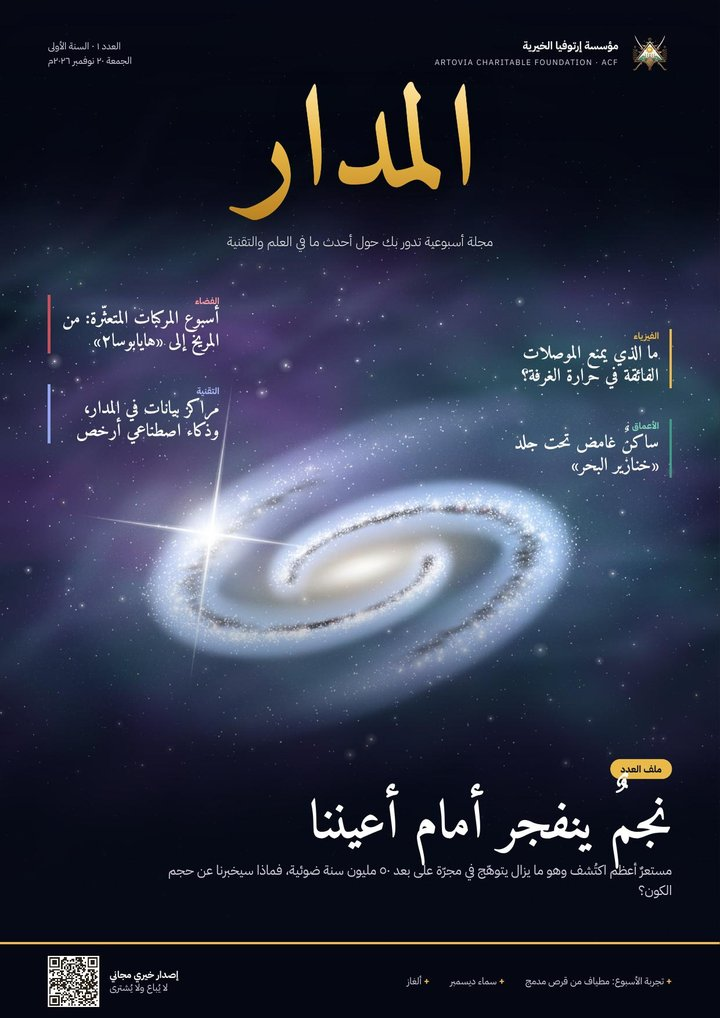
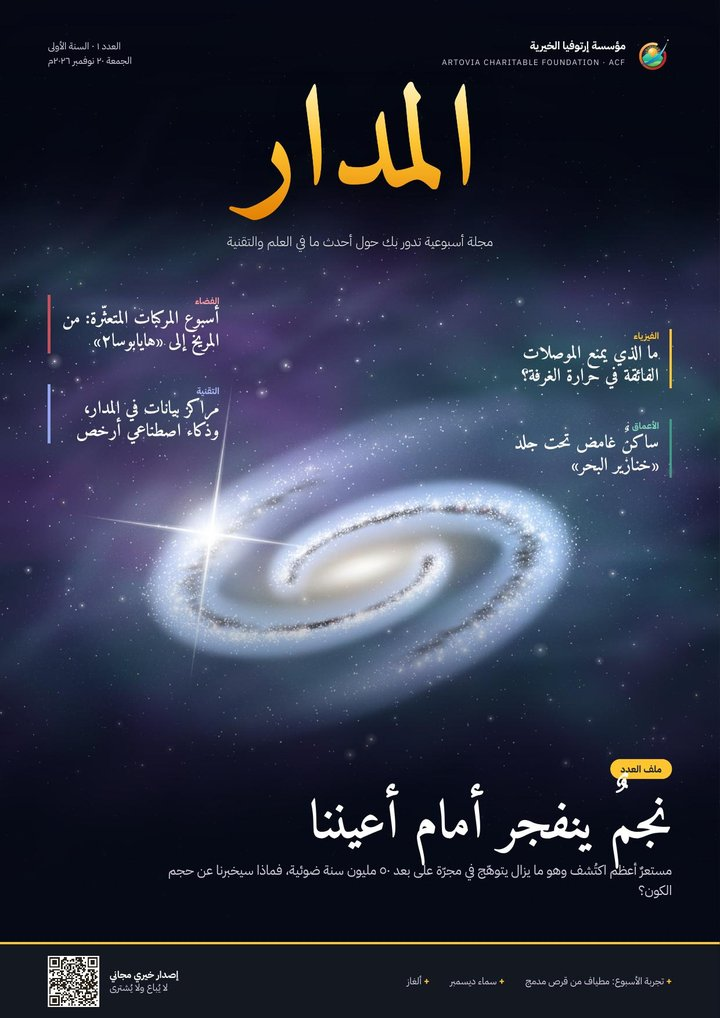
المدار: الهوية الجديدة للمؤسسة في العدد ١ (#3)
* PDF العدد ١ (نقل مؤقت إلى جهاز المؤسسة، لا يُدمج)

Claude-Session: https://claude.ai/code/session_01TVj2Xa4RKAAsSZeGx143x7

* تجاهل ملف البناء المؤقت out.html

Claude-Session: https://claude.ai/code/session_01TVj2Xa4RKAAsSZeGx143x7

* المدار: تطبيق الهوية الجديدة (الشعار والألوان) على العدد ١

Claude-Session: https://claude.ai/code/session_01TVj2Xa4RKAAsSZeGx143x7

* نقل مؤقت: PDF العدد ١ بالهوية الجديدة (سيُحذف)

Claude-Session: https://claude.ai/code/session_01TVj2Xa4RKAAsSZeGx143x7

* حذف ملف النقل المؤقت

Claude-Session: https://claude.ai/code/session_01TVj2Xa4RKAAsSZeGx143x7

---------

diff --git a/tools/madar/issue-001/pages/p01.html b/tools/madar/issue-001/pages/p01.html
@@ -1,5 +1,5 @@
 <!-- ============ الغلاف ============ -->
-<section class="page cover" style="background:#070b18">
+<section class="page cover" style="background:#161B23">
   <img class="fill" src="art/k-cover.jpg" style="position:absolute;inset:0">
   <div style="position:absolute;inset:0;background:linear-gradient(180deg,rgba(7,11,24,.78) 0%,rgba(7,11,24,0) 30%,rgba(7,11,24,0) 55%,rgba(7,11,24,.92) 88%)"></div>
 
@@ -9,14 +9,14 @@
   </div>
 
   <div style="position:absolute;top:22mm;right:0;left:0;text-align:center">
-    <div style="font-family:Amiri;font-weight:700;font-size:118pt;line-height:1.05;background:linear-gradient(180deg,#FFE7A8,#E9B949 45%,#B97F1F);-webkit-background-clip:text;background-clip:text;color:transparent;filter:drop-shadow(0 2mm 4mm rgba(0,0,0,.5))">المدار</div>
+    <div style="font-family:Amiri;font-weight:700;font-size:118pt;line-height:1.05;background:linear-gradient(180deg,#FFF6C8,#FFC530 45%,#E27C00);-webkit-background-clip:text;background-clip:text;color:transparent;filter:drop-shadow(0 2mm 4mm rgba(0,0,0,.5))">المدار</div>
     <div style="color:#fff;font-size:11pt;letter-spacing:.5px;margin-top:2mm;font-weight:300">مجلة أسبوعية تدور بك حول أحدث ما في العلم والتقنية</div>
   </div>
 
   <!-- cover lines: right column -->
   <div style="position:absolute;top:96mm;right:14mm;width:52mm;color:#fff">
-    <div style="border-right:1mm solid #E9B949;padding-right:3mm;margin-bottom:9mm">
-      <div style="font-size:7.5pt;color:#E9B949;font-weight:700">الفيزياء</div>
+    <div style="border-right:1mm solid #FFC530;padding-right:3mm;margin-bottom:9mm">
+      <div style="font-size:7.5pt;color:#FFC530;font-weight:700">الفيزياء</div>
       <div style="font-family:Amiri;font-weight:700;font-size:15pt;line-height:1.25">ما الذي يمنع الموصلات الفائقة في حرارة الغرفة؟</div>
     </div>
     <div style="border-right:1mm solid #3E9C82;padding-right:3mm;margin-bottom:9mm">
@@ -38,17 +38,17 @@
 
   <!-- main headline -->
   <div style="position:absolute;bottom:34mm;right:14mm;left:14mm;color:#fff">
-    <div style="display:inline-block;background:#E9B949;color:#0A1020;font-weight:700;font-size:8pt;padding:.8mm 3mm;border-radius:5mm;margin-bottom:5mm">ملف العدد</div>
+    <div style="display:inline-block;background:#FFC530;color:#1B2433;font-weight:700;font-size:8pt;padding:.8mm 3mm;border-radius:5mm;margin-bottom:5mm">ملف العدد</div>
     <div style="font-family:Amiri;font-weight:700;font-size:44pt;line-height:1.1">نجمٌ ينفجر أمام أعيننا</div>
     <div style="font-size:11pt;color:#d9d2e6;margin-top:1.5mm;max-width:150mm;line-height:1.55">مستعرٌ أعظم اكتُشف وهو ما يزال يتوهّج في مجرّة على بعد ٥٠ مليون سنة ضوئية، فماذا سيخبرنا عن حجم الكون؟</div>
   </div>
 
   <!-- bottom strip -->
-  <div style="position:absolute;bottom:0;left:0;right:0;height:22mm;background:rgba(5,8,18,.85);border-top:.6mm solid #E9B949;display:flex;align-items:center;justify-content:space-between;padding:0 14mm;color:#d9d2e6;font-size:8pt">
+  <div style="position:absolute;bottom:0;left:0;right:0;height:22mm;background:rgba(22,27,35,.85);border-top:.6mm solid #FFC530;display:flex;align-items:center;justify-content:space-between;padding:0 14mm;color:#d9d2e6;font-size:8pt">
     <div style="display:flex;gap:6mm">
-      <span><b style="color:#E9B949">+</b> تجربة الأسبوع: مطياف من قرص مدمج</span>
-      <span><b style="color:#E9B949">+</b> سماء ديسمبر</span>
-      <span><b style="color:#E9B949">+</b> ألغاز</span>
+      <span><b style="color:#FFC530">+</b> تجربة الأسبوع: مطياف من قرص مدمج</span>
+      <span><b style="color:#FFC530">+</b> سماء ديسمبر</span>
+      <span><b style="color:#FFC530">+</b> ألغاز</span>
     </div>
     <div style="display:flex;align-items:center;gap:3mm">
       <div style="text-align:left;line-height:1.35"><b style="color:#fff">إصدار خيري مجاني</b><br>لا يُباع ولا يُشترى</div>

diff --git a/tools/madar/issue-001/pages/p20.html b/tools/madar/issue-001/pages/p20.html
@@ -1,11 +1,9 @@
 <!-- ============ الغلاف الخلفي ============ -->
-<section class="page" style="background:#0A1020;color:#e8e3f0">
+<section class="page" style="background:#1B2433;color:#e8e3f0">
   <img class="fill" src="art/k-cover.jpg" style="position:absolute;inset:0;opacity:.35;transform:scaleX(-1)">
-  <div style="position:absolute;inset:0;background:radial-gradient(ellipse at 50% 40%,rgba(10,16,32,.2),rgba(10,16,32,.95) 75%)"></div>
+  <div style="position:absolute;inset:0;background:radial-gradient(ellipse at 50% 40%,rgba(27,36,51,.2),rgba(27,36,51,.95) 75%)"></div>
   <div style="position:absolute;top:40mm;left:20mm;right:20mm;text-align:center">
-    <img src="art/emblem.png" style="height:46mm">
-    <div style="font-family:Amiri;font-weight:700;font-size:26pt;color:#fff;margin-top:4mm">مؤسسة إرتوفيا الخيرية</div>
-    <div class="en" style="font-size:9pt;letter-spacing:2px;color:var(--goldL)">ARTOVIA CHARITABLE FOUNDATION · ACF</div>
+    <img src="art/logo-v-dark.png" style="height:82mm">
     <p style="font-size:10pt;line-height:1.8;max-width:140mm;margin:8mm auto 0;color:#d6d0e2">مؤسسة تعمل على نشر المعرفة العلمية والتقنية باللغة العربية، فتؤلّف الكتب وتُصدر المجلات وتتيحها مجانًا لكل من يحب أن يتعلّم. «المدار» مجلتها الأسبوعية، تصدر كل جمعة.</p>
   </div>
   <div style="position:absolute;bottom:58mm;left:20mm;right:20mm;display:flex;justify-content:center;gap:10mm">
@@ -19,7 +17,7 @@
       <div style="font-size:8pt;line-height:1.7;color:#d6d0e2"><b style="color:#fff">موقع المؤسسة</b><br>الأعداد السابقة والكتب<br><span class="en" style="font-size:7pt">artoviacentr@gmail.com</span></div>
     </div>
   </div>
-  <div style="position:absolute;bottom:0;left:0;right:0;padding:6mm 20mm 8mm;border-top:.6mm solid var(--goldL);background:rgba(5,8,18,.9);font-size:7.2pt;line-height:1.7;color:#b9b2c8;text-align:center">
+  <div style="position:absolute;bottom:0;left:0;right:0;padding:6mm 20mm 8mm;border-top:.6mm solid var(--goldL);background:rgba(22,27,35,.9);font-size:7.2pt;line-height:1.7;color:#b9b2c8;text-align:center">
     <b style="color:#fff;font-size:9pt">إصدار خيري مجاني، لا يُباع ولا يُشترى</b><br>
     أُعدّت «المدار» على نفقة مؤسسة إرتوفيا الخيرية. يُسمح بنسخها ومشاركتها مجانًا دون تعديل ولأغراض غير تجارية، ويلزم لأي تعديل أو ترجمة إذنٌ كتابي من المؤسسة. الصور الحقيقية منشورة بتراخيص مفتوحة مذكورة بجانب كل صورة، وتبقى حقوقها لأصحابها.
   </div>

diff --git a/tools/madar/issue-001/pages/p10.html b/tools/madar/issue-001/pages/p10.html
@@ -23,7 +23,7 @@
       </div>
       <div class="brief"><span class="chip">الفيديو التفاعلي</span><h5>فيديو يُولَّد بسرعة اللعب</h5><p>كشفت «آبل» وجامعة «كورنيل» عن نماذج اسمها «فاست فريمز» تولّد الفيديو إطارًا بعد إطار بدقة ٤٨٠ نقطة، بزمن ٣٦ جزءًا من الألف من الثانية للإطار، أي قرابة ٢٨ إطارًا في الثانية، وهي سرعة تقترب من ألعاب الفيديو. والسر استبدال أبطأ خطوتين في التوليد ببدائل أخف.</p></div>
       <div class="brief"><span class="chip">المؤسسات</span><h5>«مايكروسوفت» تنظّم جيش الوكلاء</h5><p>في مؤتمرها السنوي «إغنايت» أطلقت «مايكروسوفت» منصة لإدارة وكلاء الذكاء الاصطناعي في الشركات ومراقبتهم، ومنحت كل وكيل «هوية» رقمية خاصة به كما للموظفين، إلى جانب أجهزة افتراضية جديدة بمعالجات «كوبالت ٢٠٠» تقول إنها أسرع بنسبة تصل إلى ٥٠٪.</p></div>
-      <div class="box" style="margin-top:auto;background:#0A1020;color:#e8e3f0">
+      <div class="box" style="margin-top:auto;background:#1B2433;color:#e8e3f0">
         <h4 style="color:var(--goldL)">مصطلح الأسبوع</h4>
         <p style="font-family:Amiri;font-size:15pt;color:#fff;line-height:1.2;margin-bottom:1mm">الوكيل الذكي</p>
         <p style="font-size:7.8pt;line-height:1.6">برنامج ذكاء اصطناعي لا يكتفي بالإجابة عن سؤال، بل يخطط وينفّذ سلسلة من الخطوات بنفسه: يفتح ملفات، ويستعمل أدوات، ويكتب ويختبر، حتى يُتمّ مهمة كاملة.</p>

diff --git a/tools/madar/issue-001/pages/p09.html b/tools/madar/issue-001/pages/p09.html
@@ -1,8 +1,8 @@
 <!-- ============ /04 التقنية (١) ============ -->
 <section class="page s-tech">
-  <div class="ph" style="top:0;left:0;right:0;height:96mm;background:#0A1020"><img src="art/k-chip.jpg" style="object-fit:cover">
+  <div class="ph" style="top:0;left:0;right:0;height:96mm;background:#1B2433"><img src="art/k-chip.jpg" style="object-fit:cover">
     <div style="position:absolute;top:9mm;right:14mm;left:14mm;display:flex;justify-content:space-between;color:#cfe;font-size:7.3pt"><span><b style="font-family:Amiri;font-size:11pt;color:#fff">المدار</b> · العدد ١</span><span style="background:var(--teal);color:#fff;padding:.6mm 3mm;border-radius:10mm;font-weight:700">التقنية</span></div>
-    <div style="position:absolute;bottom:6mm;right:14mm;color:#fff;background:linear-gradient(270deg,rgba(10,16,32,.9),rgba(10,16,32,.0));padding:3mm 6mm 3mm 30mm">
+    <div style="position:absolute;bottom:6mm;right:14mm;color:#fff;background:linear-gradient(270deg,rgba(27,36,51,.9),rgba(27,36,51,.0));padding:3mm 6mm 3mm 30mm">
       <div class="num" style="color:#7fd3b9">٠٤<i style="color:#fff">/</i></div>
       <h1 class="t" style="color:#fff;margin:0">ذكاءٌ أرخص، ورقائق<br>بلا «كودا»</h1>
     </div>

diff --git a/tools/madar/issue-001/pages/p06.html b/tools/madar/issue-001/pages/p06.html
@@ -2,7 +2,7 @@
 <section class="page s-space">
   <div class="run"><span><b>المدار</b> · العدد ١</span><span class="tag">الفضاء</span></div>
   <div class="ph" style="top:19mm;left:0;width:96mm;bottom:0"><img src="img/percy.jpg" style="object-position:72% 50%"><div class="crd">{{cr:percy.jpg}}</div>
-    <div style="position:absolute;bottom:8mm;left:6mm;right:6mm;background:rgba(10,16,32,.78);color:#fff;border-radius:2mm;padding:3mm 4mm;font-size:7.6pt;line-height:1.55">صورة ذاتية التقطتها «برسفيرنس» لنفسها على سطح المريخ عام ٢٠٢٥م، بتجميع لقطات من كاميرا في طرف ذراعها الآلية.</div>
+    <div style="position:absolute;bottom:8mm;left:6mm;right:6mm;background:rgba(27,36,51,.78);color:#fff;border-radius:2mm;padding:3mm 4mm;font-size:7.6pt;line-height:1.55">صورة ذاتية التقطتها «برسفيرنس» لنفسها على سطح المريخ عام ٢٠٢٥م، بتجميع لقطات من كاميرا في طرف ذراعها الآلية.</div>
   </div>
   <div class="body" style="left:104mm">
     <div class="num">٠٢<i>/</i></div>

diff --git a/tools/madar/issue-001/pages/p14.html b/tools/madar/issue-001/pages/p14.html
@@ -1,7 +1,7 @@
 <!-- ============ /07 الأرض والإنسان (١) ============ -->
 <section class="page s-earth">
   <div class="ph" style="top:0;left:0;right:0;height:128mm"><img src="img/stonehenge.jpg" style="object-position:50% 60%">
-    <div style="position:absolute;inset:0;background:linear-gradient(180deg,rgba(10,16,32,.5),transparent 28%,transparent 50%,rgba(20,14,8,.9))"></div>
+    <div style="position:absolute;inset:0;background:linear-gradient(180deg,rgba(27,36,51,.5),transparent 28%,transparent 50%,rgba(20,14,8,.9))"></div>
     <div style="position:absolute;top:9mm;right:14mm;left:14mm;display:flex;justify-content:space-between;color:#fff;font-size:7.3pt"><span><b style="font-family:Amiri;font-size:11pt">المدار</b> · العدد ١</span><span style="background:#A86B32;color:#fff;padding:.6mm 3mm;border-radius:10mm;font-weight:700">الأرض والإنسان</span></div>
     <div style="position:absolute;bottom:7mm;right:14mm;left:14mm;color:#fff">
       <div class="num" style="color:#f0c48a">٠٧<i style="color:#fff">/</i></div>

diff --git a/tools/madar/issue-001/pages/p04.html b/tools/madar/issue-001/pages/p04.html
@@ -2,7 +2,7 @@
 <section class="page s-gold">
   <div class="ph" style="top:0;left:0;right:0;height:132mm">
     <img src="img/sn-gemini.jpg" style="object-position:50% 45%">
-    <div style="position:absolute;inset:0;background:linear-gradient(180deg,rgba(10,16,32,.55),transparent 30%,transparent 55%,rgba(10,16,32,.92))"></div>
+    <div style="position:absolute;inset:0;background:linear-gradient(180deg,rgba(27,36,51,.55),transparent 30%,transparent 55%,rgba(27,36,51,.92))"></div>
     <div style="position:absolute;top:9mm;right:14mm;left:14mm;display:flex;justify-content:space-between;color:#fff;font-size:7.3pt"><span><b style="font-family:Amiri;font-size:11pt">المدار</b> · العدد ١</span><span class="tag" style="background:var(--goldL);color:var(--night);padding:.6mm 3mm;border-radius:10mm;font-weight:700">ملف العدد</span></div>
     <div style="position:absolute;bottom:7mm;right:14mm;left:14mm;color:#fff">
       <div class="num" style="color:var(--goldL);font-size:36pt">٠١<i style="color:#fff;opacity:.4">/</i></div>

diff --git a/tools/madar/issue-001/style.css b/tools/madar/issue-001/style.css
@@ -8,8 +8,8 @@
 @font-face{font-family:PlexL;font-weight:700;src:url(fonts/IBMPlexSans-Bold.ttf)}
 
 :root{
-  --night:#0A1020; --ink:#2B2218; --muted:#7B6A58; --gold:#C9952E; --goldL:#E9B949;
-  --teal:#3E9C82; --red:#C8505A; --blue:#4A64B0; --cream:#FDFBF6; --paper:#F4EEE2; --line:#D9CDB8;
+  --night:#1B2433; --ink:#1B2433; --muted:#66707D; --gold:#E27C00; --goldL:#FFC530;
+  --teal:#19B58A; --red:#E2262B; --blue:#1E5BD8; --cream:#FDFBF6; --paper:#F4EEE2; --line:#D9CDB8;
   --acc:var(--gold);
 }
 @page{size:210mm 297mm;margin:0}
@@ -91,6 +91,6 @@ h1.t.xl{font-size:40pt}
 
 /* section accent colours */
 .s-space{--acc:var(--blue)} .s-gold{--acc:var(--gold)} .s-phys{--acc:#7A4FB0} .s-tech{--acc:var(--teal)}
-.s-life{--acc:#2E8C9E} .s-med{--acc:var(--red)} .s-earth{--acc:#A86B32} .s-energy{--acc:#D9822B}
+.s-life{--acc:#0B6E55} .s-med{--acc:var(--red)} .s-earth{--acc:#A86B32} .s-energy{--acc:#FF8A1F}
 .c2 .pq{font-size:12.5pt}.c2 .pq:before{font-size:36pt}
 svg{direction:ltr}

diff --git a/tools/madar/issue-001/pages/p19.html b/tools/madar/issue-001/pages/p19.html
@@ -2,7 +2,7 @@
 <section class="page s-space">
   <div class="run"><span><b>المدار</b> · العدد ١</span><span class="tag">السماء والألغاز</span></div>
   <div class="ph" style="top:19mm;left:0;right:0;height:84mm"><img src="img/geminids.jpg" style="object-position:50% 40%">
-    <div style="position:absolute;inset:0;background:linear-gradient(90deg,transparent 40%,rgba(10,16,32,.85))"></div>
+    <div style="position:absolute;inset:0;background:linear-gradient(90deg,transparent 40%,rgba(27,36,51,.85))"></div>
     <div style="position:absolute;top:10mm;right:14mm;width:92mm;color:#fff">
       <span class="kicker" style="color:var(--goldL);border-color:var(--goldL)">ارفع رأسك</span>
       <h1 class="t" style="color:#fff;margin:0">سماء الأسابيع القادمة</h1>

diff --git a/tools/madar/issue-001/pages/p02.html b/tools/madar/issue-001/pages/p02.html
@@ -9,7 +9,7 @@
     <div class="ph" style="position:relative;height:62mm;border-radius:2mm">
       <img src="img/ngc1433-webb.jpg">
       <div class="crd">{{cr:ngc1433-webb.jpg}}</div>
-      <div style="position:absolute;bottom:0;right:0;left:0;padding:4mm 5mm;background:linear-gradient(0deg,rgba(10,16,32,.85),transparent);color:#fff">
+      <div style="position:absolute;bottom:0;right:0;left:0;padding:4mm 5mm;background:linear-gradient(0deg,rgba(27,36,51,.85),transparent);color:#fff">
         <span style="font-family:Amiri;font-weight:700;font-size:20pt">٤</span>
         <span style="font-family:Amiri;font-weight:700;font-size:15pt;margin-right:2mm">المجرّة NGC 1433: بيت المستعر الأعظم الجديد كما رآها «جيمس ويب» و«هابل»</span>
       </div>

diff --git a/tools/madar/issue-001/pages/p18.html b/tools/madar/issue-001/pages/p18.html
@@ -1,6 +1,6 @@
 <!-- ============ فكرة الأسبوع ============ -->
-<section class="page dark s-gold" style="background:#0A1020;color:#e8e3f0">
-  <div class="run"><span><b>المدار</b> · العدد ١</span><span class="tag" style="background:var(--goldL);color:#0A1020">فكرة الأسبوع</span></div>
+<section class="page dark s-gold" style="background:#1B2433;color:#e8e3f0">
+  <div class="run"><span><b>المدار</b> · العدد ١</span><span class="tag" style="background:var(--goldL);color:#1B2433">فكرة الأسبوع</span></div>
   <div class="body">
     <span class="kicker" style="color:var(--goldL);border-color:var(--goldL)">كيف نقيس الكون؟</span>
     <h1 class="t xl" style="color:#fff;margin-top:0">الشموع المعيارية</h1>

diff --git a/tools/madar/README.md b/tools/madar/README.md
@@ -24,3 +24,7 @@
 - أخبار الأسبوع (الجمعة إلى الخميس) بمصادر حقيقية، ولكل خبر QR لمصدره.
 - الهيكل: غلاف، محتويات، كلمة العدد وأرقام الأسبوع، ملف العدد (صفحتان)، ٦–٧ ملفات مرقمة، تجربة، فكرة الأسبوع، السماء والألغاز، غلاف خلفي. ١٥ صفحة على الأقل.
 - مواعيد السماء تُحسب بمكتبة ephem لا من الذاكرة.
+
+## الهوية البصرية (من ٢١ نوفمبر ٢٠٢٦م)
+- الشعار الرسمي من حزمة الهوية `/mnt/project-files/شعار/kit/`: `art/emblem.png` (الرمز وحده، للترويسة وكلمة العدد) و`art/logo-v-dark.png` (الشعار العمودي على الخلفية الداكنة، للغلاف الخلفي).
+- الألوان من palette.txt: ذهبي #FFC530، برتقالي #FF8A1F و#E27C00 للنص على الخلفية الفاتحة، أحمر #E2262B، تركوازي #19B58A، أخضر #7ED957، أزرق #1E5BD8، كحلي #1B2433، رمادي داكن #2A3038، كريمي #FDFBF6.
